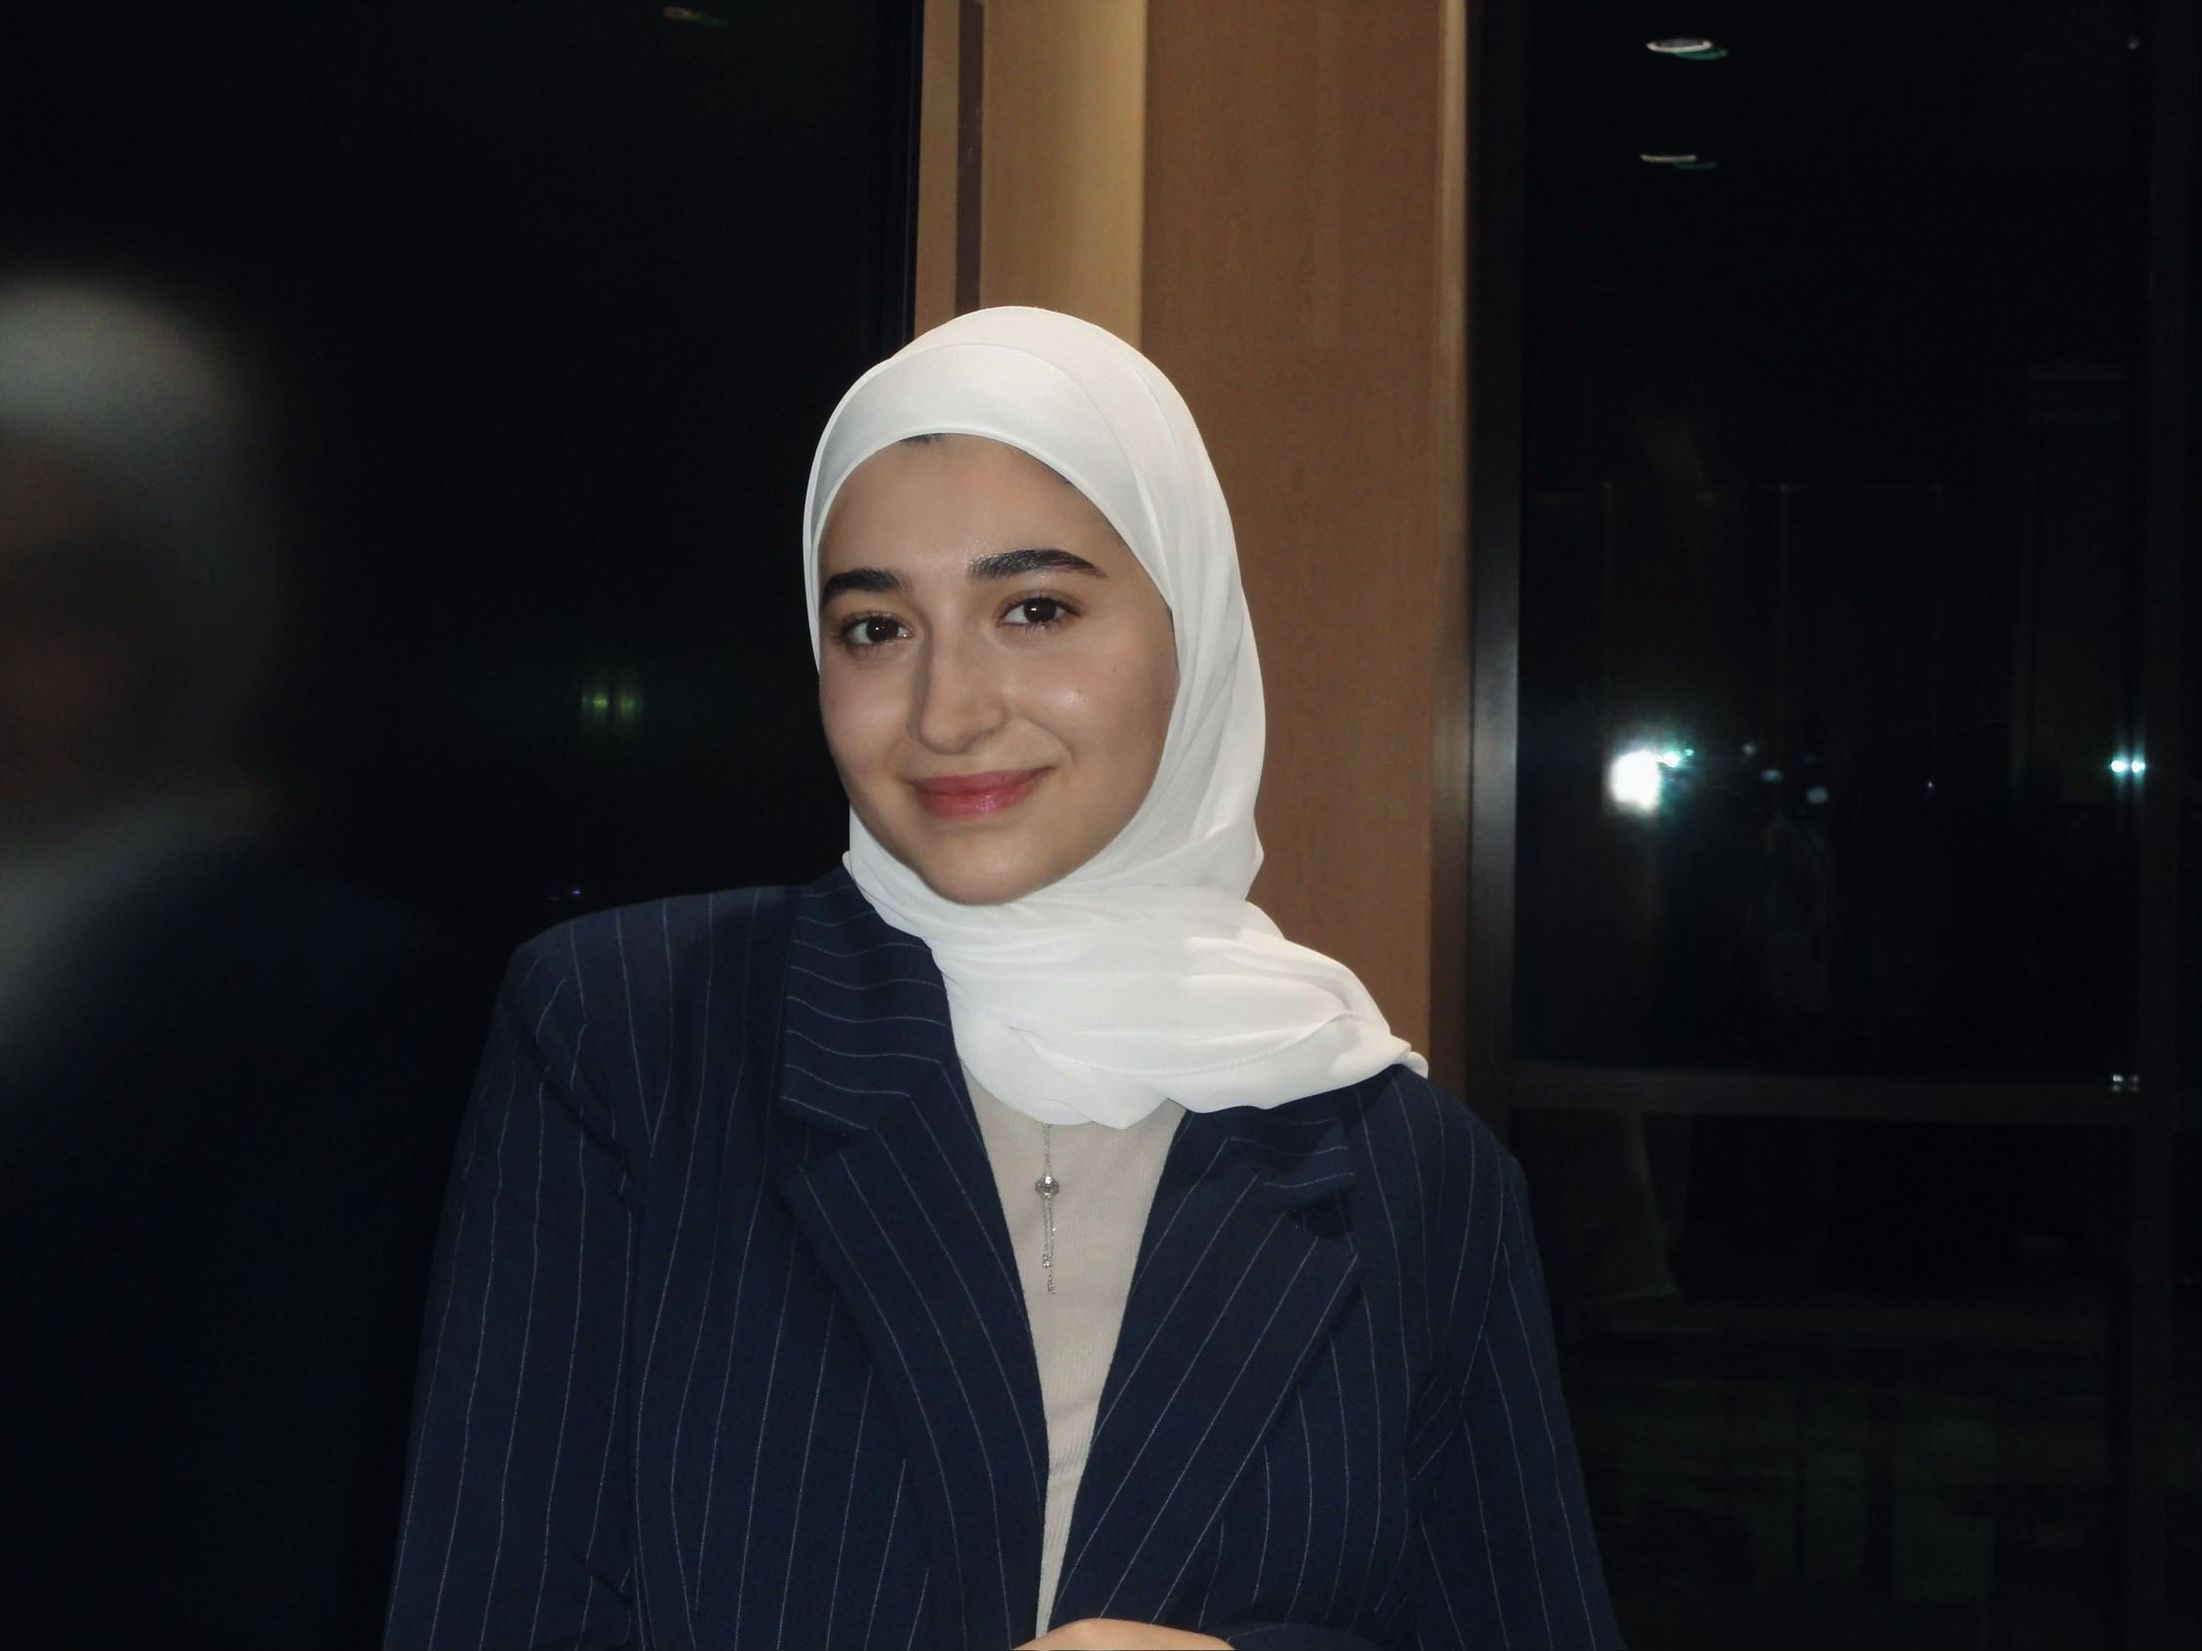
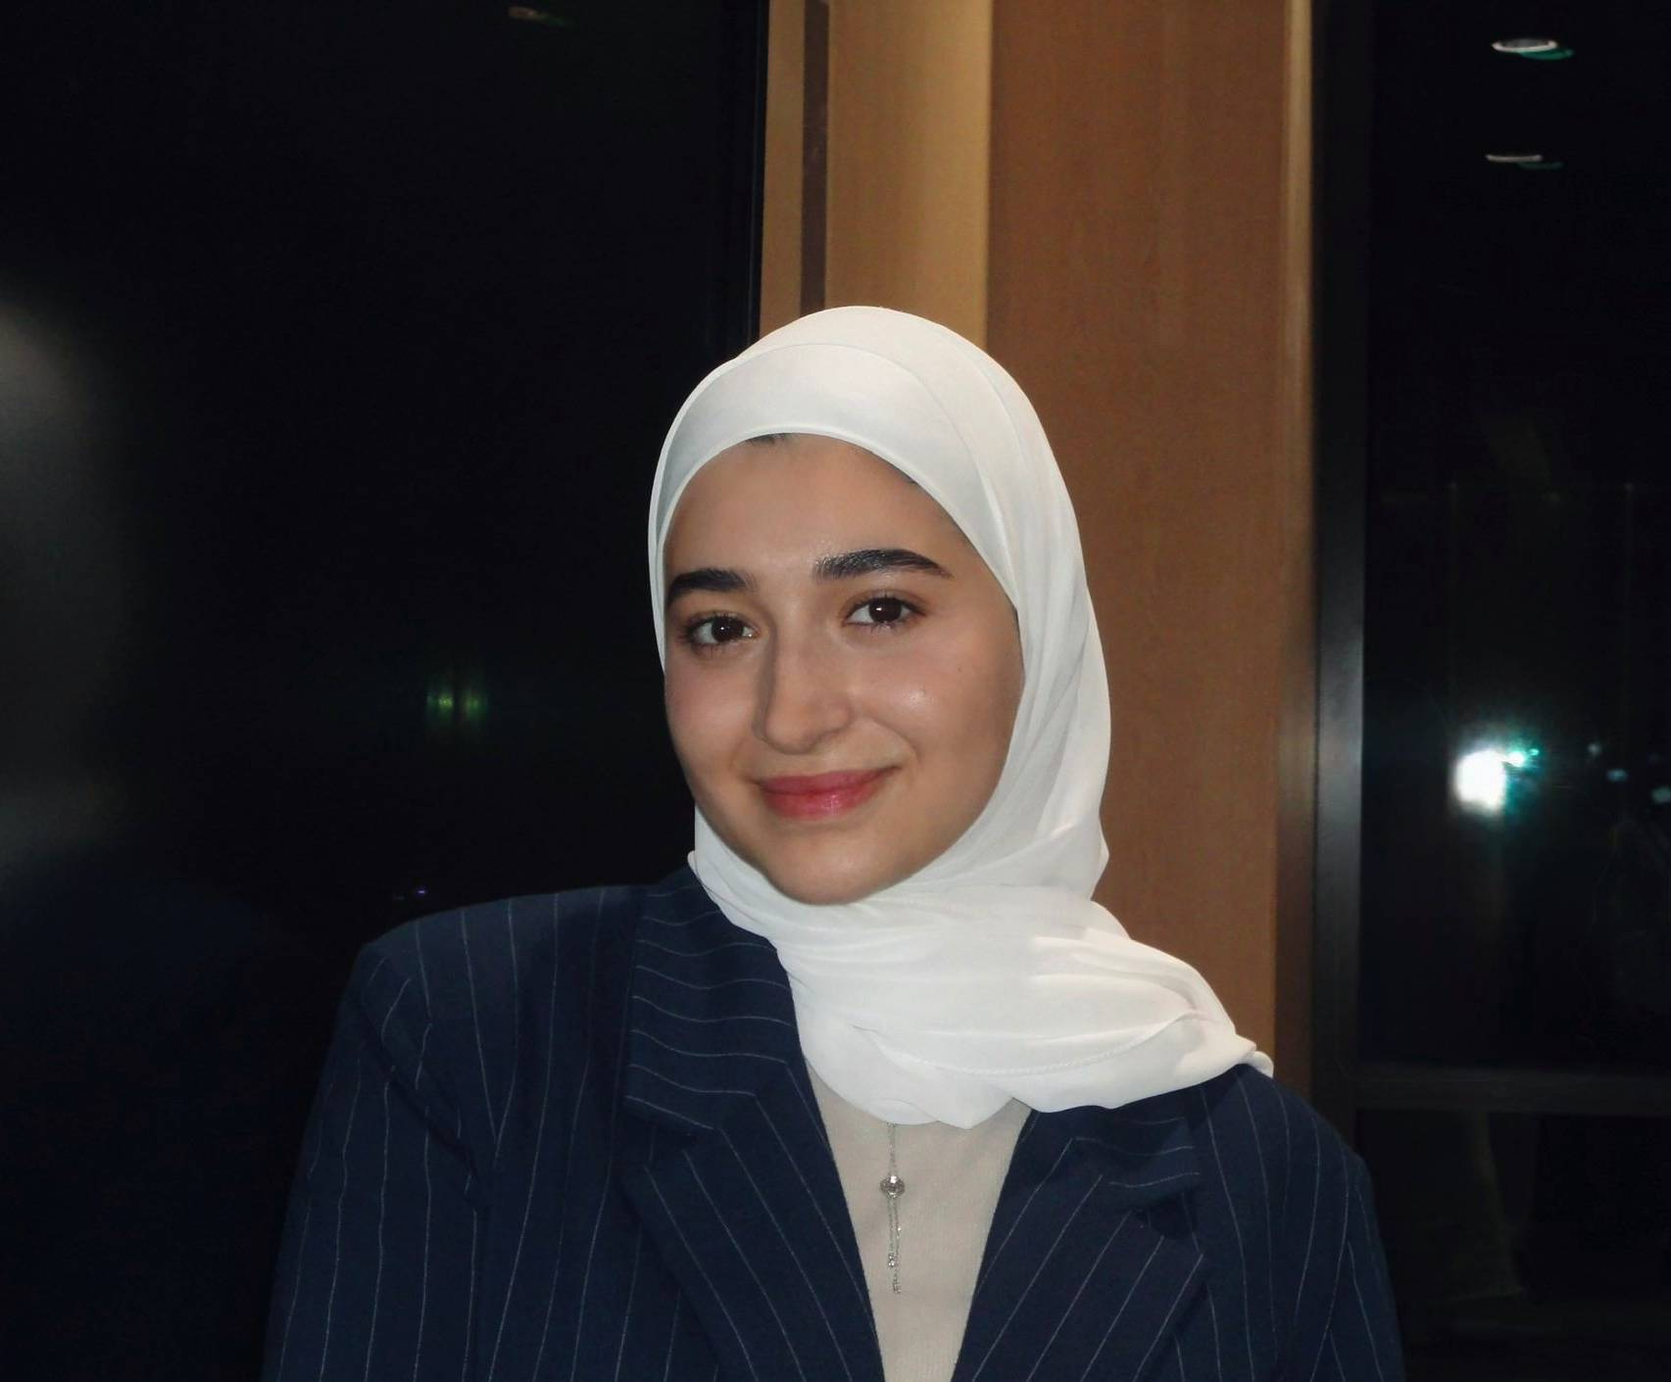
feat  added dana fr fr

diff --git a/src/app/team/content.ts b/src/app/team/content.ts
@@ -11,7 +11,7 @@ const GRADIENTS = {
 export const PRESIDENTS: ITeamMember[] = [
   { name: "Lana Alkasiy", role: "Secretary - Secretary - Secretary - ", image: '/team/lana.jpg', borderColor: GRADIENTS.president, quote: "404: quote not found" },
   { name: "Noor Soueid", role: "President - President - President - ", image: '/team/lady.jpg', borderColor: GRADIENTS.president },
-  { name: "Dana Hommos", role: "Vice President - Vice President - ", image: '/team/ddana.jpg', borderColor: GRADIENTS.president, quote: "Urgent calls only" },
+  { name: "Dana Hommos", role: "Vice President - Vice President - ", image: '/team/dana.jpg', borderColor: GRADIENTS.president, quote: "Urgent calls only" },
 ]
 
 export const HEADS: ITeamMember[] = [
